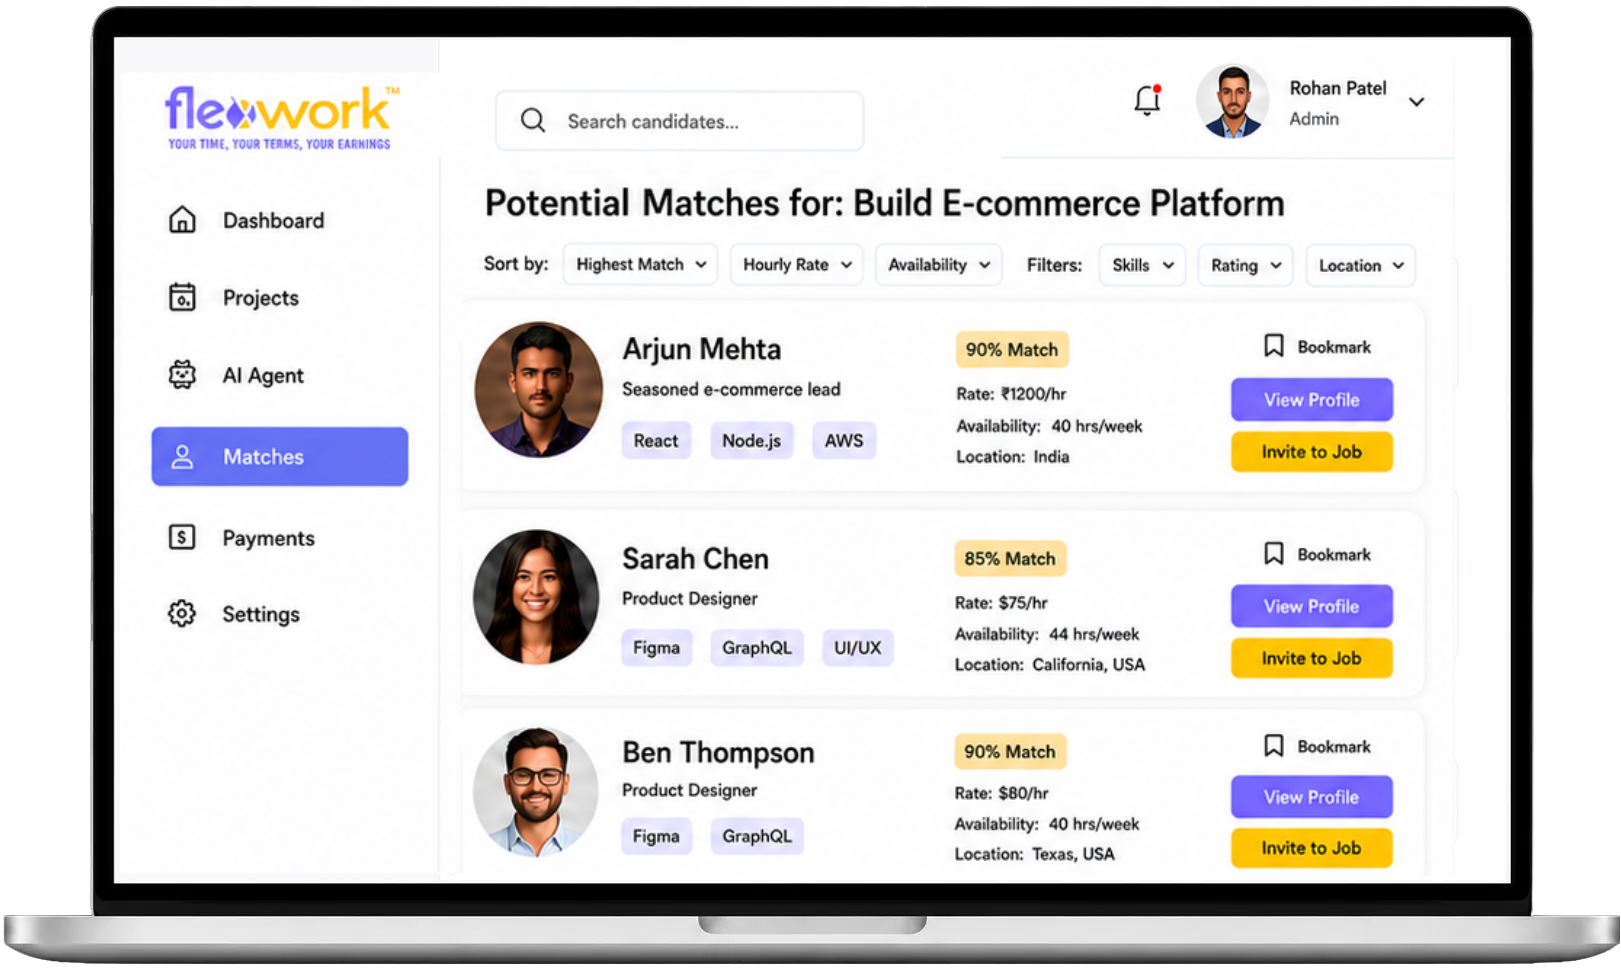
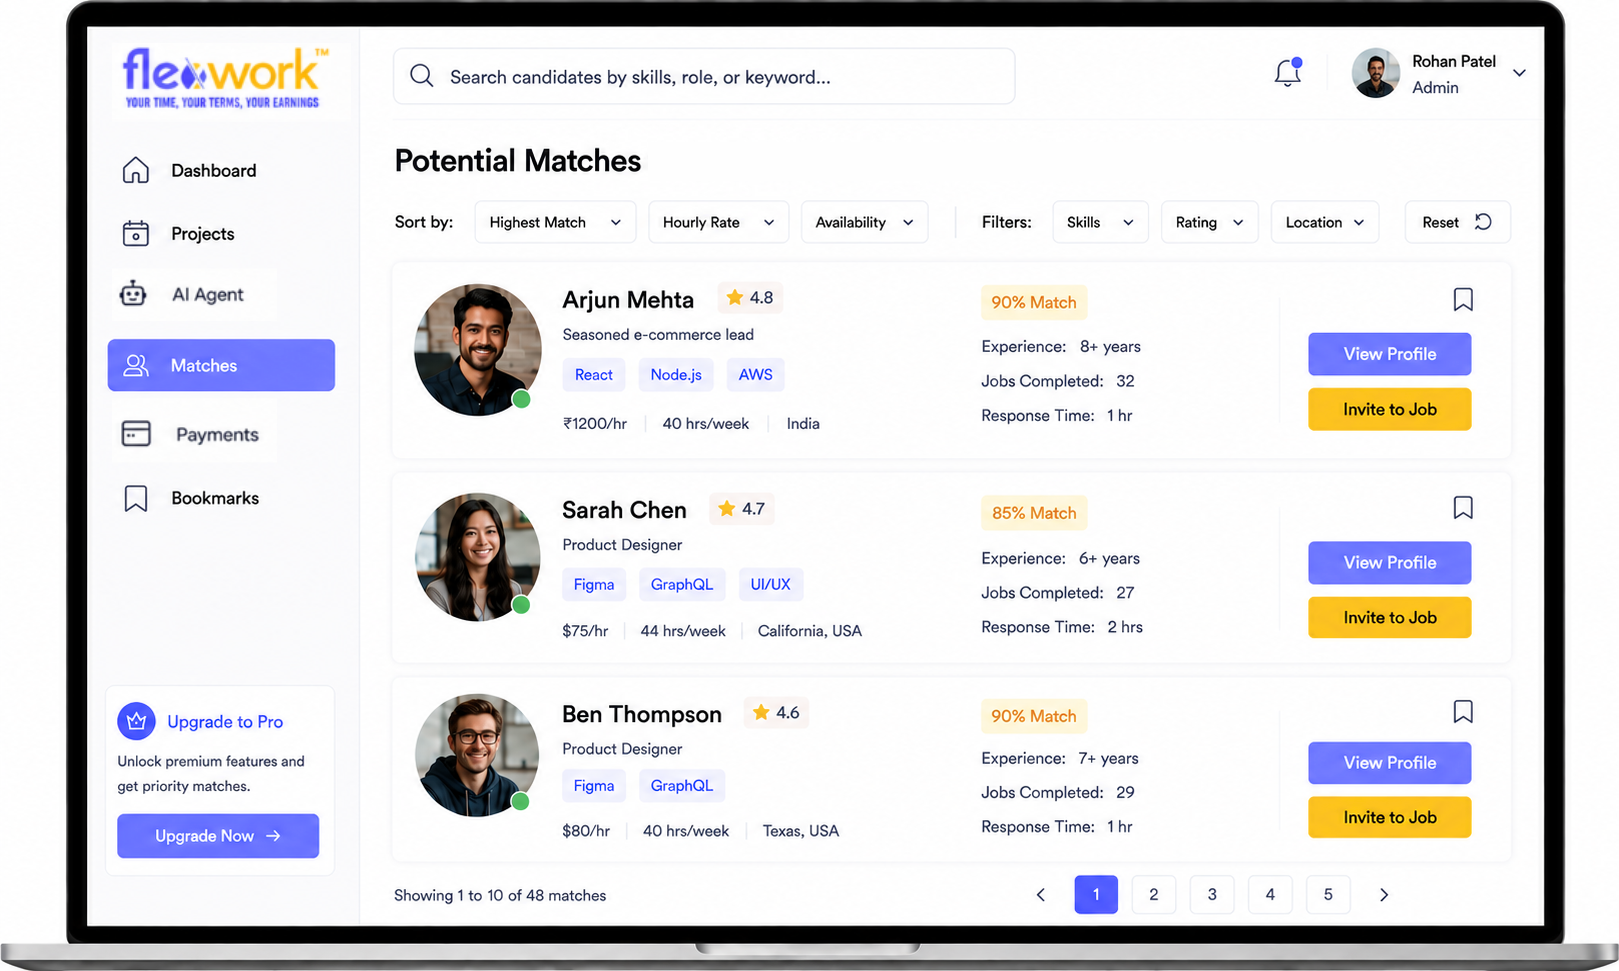
Home Page

diff --git a/index.html b/index.html
@@ -886,7 +886,6 @@ section {overflow: visible;}
     border-radius:999px;
     margin-bottom:18px;
     position:relative;overflow:hidden;
-    animation:purpleBulge 2.8s ease-in-out infinite;
     transition:transform .25s ease, box-shadow .25s ease;
   }
   .eyebrow svg{width:16px;height:16px;flex:none;animation:spin 6s linear infinite;}
@@ -2712,8 +2711,8 @@ section {overflow: visible;}
 </div>
 </div>
 </header>
-<!-- HERO SECTION -->
-<section class="position-relative w-100 d-flex align-items-center pt-3 pb-3 overflow-hidden" style="min-height: 560px;background-color: #f8f7fc;;">
+<-- HERO SECTION -->
+<section class="position-relative w-100 d-flex align-items-center pt-3 pb-3 overflow-hidden" style="min-height: 560px;background-color: #f8f7fc;">
 <div class="container position-relative">
 <div class="row g-4 align-items-start">
 <!-- ================= LEFT CONTENT ================= -->
@@ -3128,19 +3127,17 @@ section {overflow: visible;}
 <div class="tab-pane fade" id="project-talent" role="tabpanel">
 <div class="row align-items-center g-4 g-lg-5" style="min-height: 500px;">
 <div class="col-12 col-lg-6 text-center">
-<div class="rounded-4 overflow-hidden shadow-sm mx-auto fx-media-hover fx-reveal fx-reveal-left"
-     style="overflow:hidden; transition:box-shadow .45s ease; max-width:480px; height:420px;">
+<div class="rounded-4 overflow-hidden shadow-sm mx-auto fx-reveal fx-reveal-left"
+     style="overflow:hidden; transition:box-shadow .45s ease; max-width:550px; height:420px;">
 
     <div class="position-relative" id="projectTalentCarousel" style="width:100%; height:100%;">
 
         <div id="ptCarouselTrack" style="width:100%; height:100%; position:relative;">
-            <img src="find_project_talent1.png" alt="Client browsing vetted project talent" class="pt-carousel-slide" data-index="0" style="position:absolute; inset:0; width:100%; height:100%; object-fit:contain; object-position:center; opacity:1; transition:opacity .7s ease;">
             <img src="find_project_talent2.png" alt="Freelancer profile with skills and reviews" class="pt-carousel-slide" data-index="1" style="position:absolute; inset:0; width:100%; height:100%; object-fit:contain; object-position:center; opacity:0; transition:opacity .7s ease;">
             <img src="find_project_talent3.png" alt="Team collaborating on a remote project" class="pt-carousel-slide" data-index="2" style="position:absolute; inset:0; width:100%; height:100%; object-fit:contain; object-position:center; opacity:0; transition:opacity .7s ease;">
         </div>
 
         <div id="ptCarouselDots" style="position:absolute; bottom:16px; left:0; width:100%; display:flex; justify-content:center; gap:9px; z-index:3;">
-            <span class="pt-dot" data-index="0" style="width:9px; height:9px; border-radius:50%; background:var(--purple); cursor:pointer; transition:all .3s ease; box-shadow:0 1px 4px rgba(0,0,0,.25);"></span>
             <span class="pt-dot" data-index="1" style="width:9px; height:9px; border-radius:50%; background:rgba(255,255,255,.75); cursor:pointer; transition:all .3s ease; box-shadow:0 1px 4px rgba(0,0,0,.25);"></span>
             <span class="pt-dot" data-index="2" style="width:9px; height:9px; border-radius:50%; background:rgba(255,255,255,.75); cursor:pointer; transition:all .3s ease; box-shadow:0 1px 4px rgba(0,0,0,.25);"></span>
         </div>
